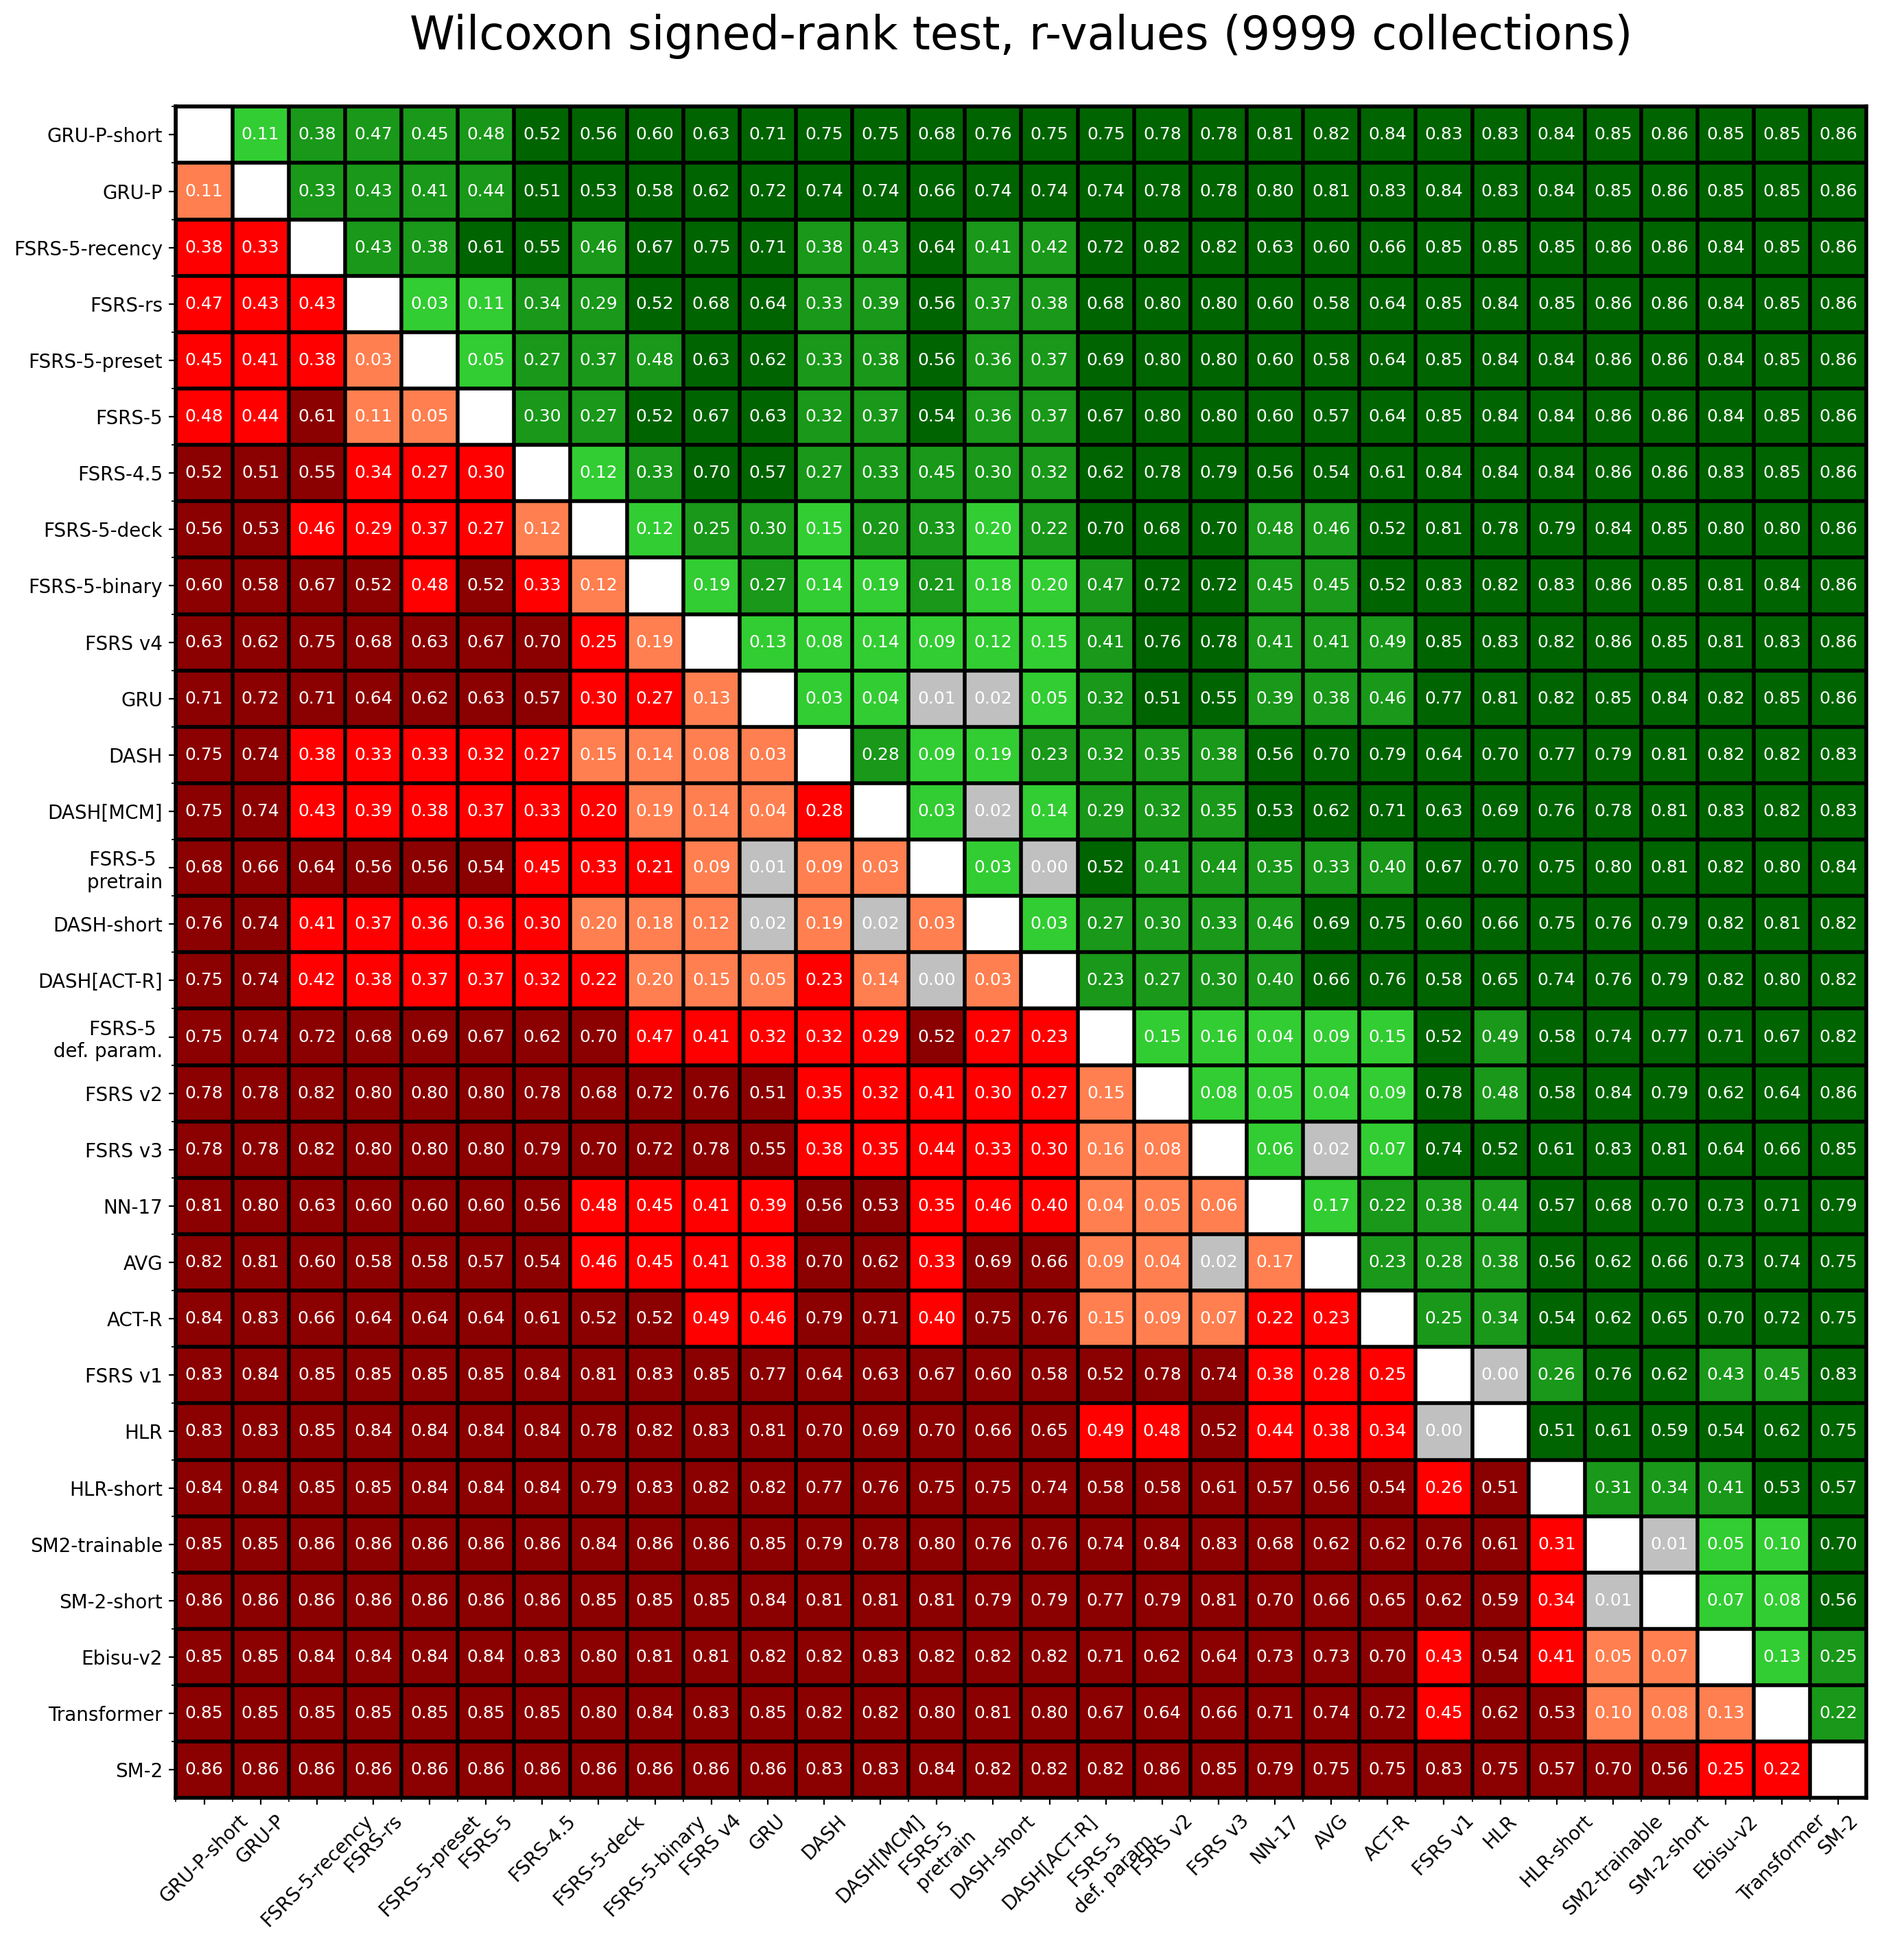
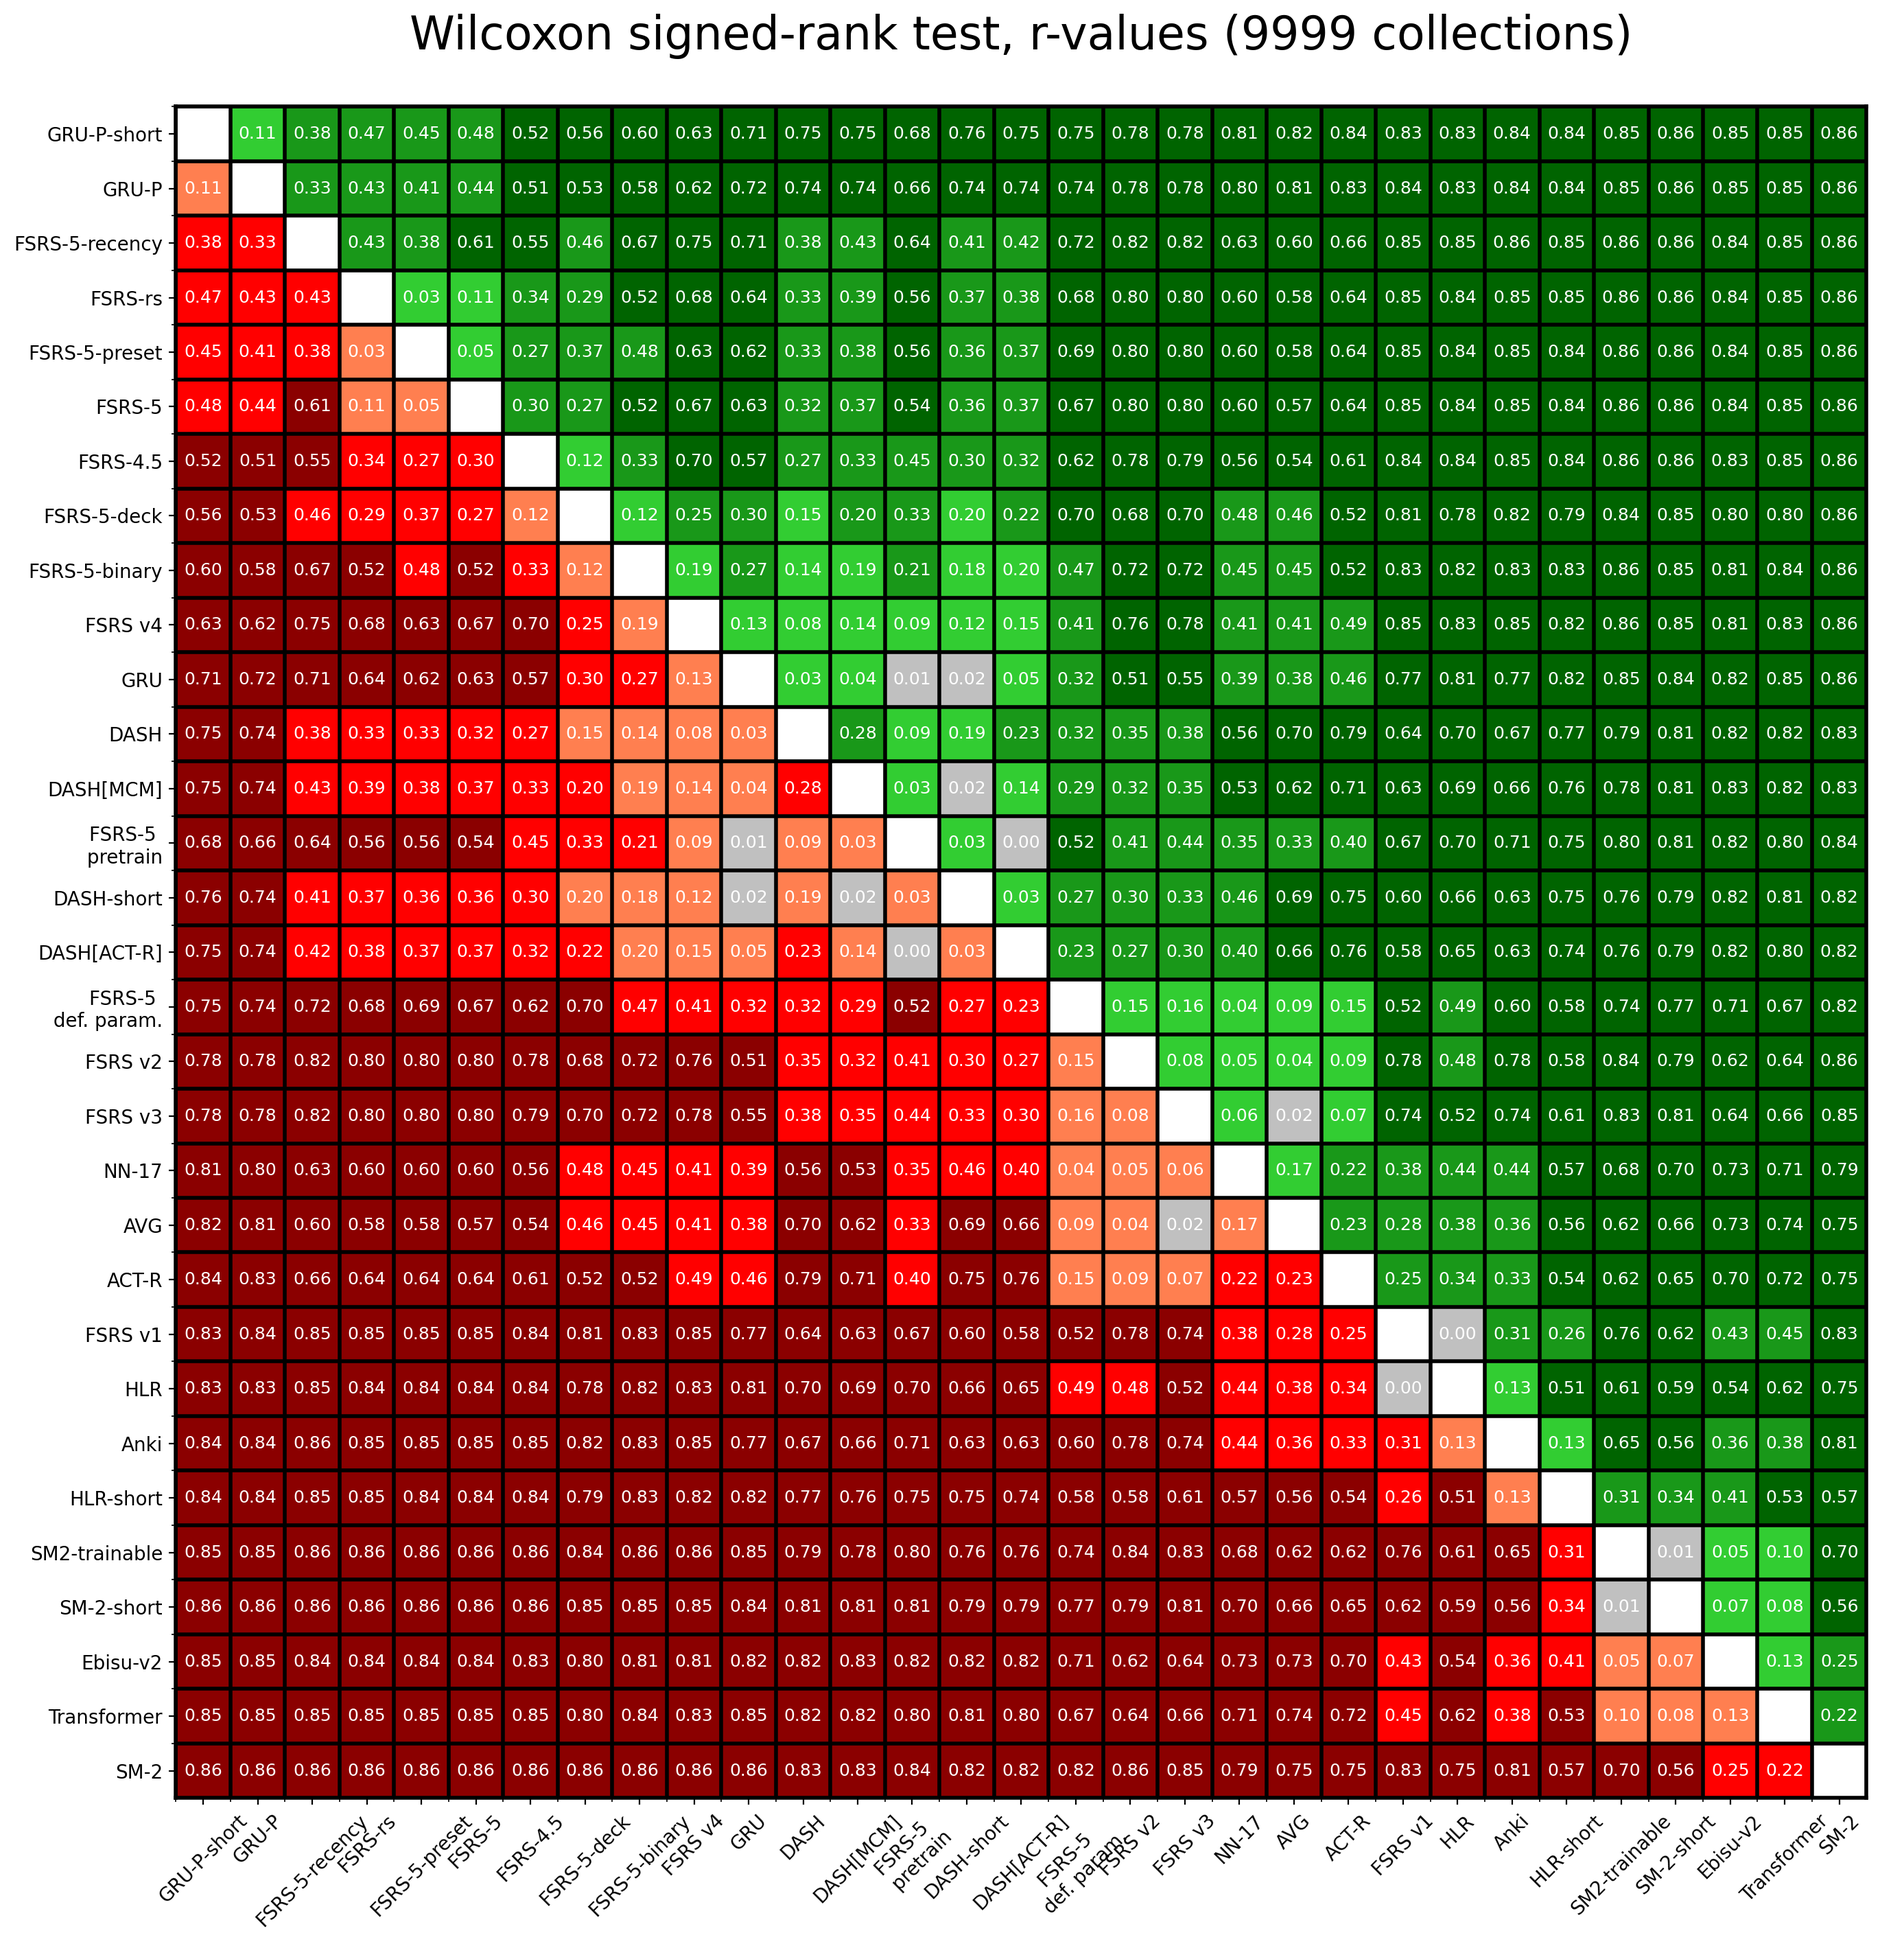
add Anki to results

diff --git a/other.py b/other.py
@@ -1755,6 +1755,7 @@ class SM2ParameterClipper:
 
 
 class SM2(nn.Module):
+    # 6 params
     init_w = [1, 6, 2.5, 0.02, 7, 0.18]
     clipper = SM2ParameterClipper()
     lr: float = 4e-2
@@ -1854,6 +1855,7 @@ class AnkiParameterClipper:
 
 
 class Anki(nn.Module):
+    # 7 params
     init_w = [
         1,  # graduating interval
         4,  # easy interval
@@ -1923,7 +1925,8 @@ class Anki(nn.Module):
                     self.passing_nonearly_review_intervals(
                         rating, ease, ivl, days_late
                     ),
-                ) * self.w[6]
+                )
+                * self.w[6],
             )
             new_ease = torch.where(
                 rating == 1,

diff --git a/evaluate.py b/evaluate.py
@@ -114,6 +114,7 @@ if __name__ == "__main__":
             ("ACT-R", 5),
             ("FSRSv1", 7),
             ("AVG", 0),
+            ("Anki", 7),
             ("HLR", 3),
             ("HLR-short", 3),
             ("SM2-trainable", 6),

diff --git a/significance_table.py b/significance_table.py
@@ -90,6 +90,7 @@ if __name__ == "__main__":
         "ACT-R",
         "FSRSv1",
         "HLR",
+        "Anki",
         "HLR-short",
         "SM2-trainable",
         "SM2-short",

diff --git a/superiority.py b/superiority.py
@@ -38,6 +38,7 @@ if __name__ == "__main__":
         "ACT-R",
         "FSRSv1",
         "HLR",
+        "Anki",
         "HLR-short",
         "SM2-trainable",
         "SM2-short",

diff --git a/README.md b/README.md
@@ -94,6 +94,7 @@ The following tables present the means and the 99% confidence intervals. The bes
 | ACT-R | 5 | 0.362±0.0089 | 0.086±0.0024 | 0.534±0.0054 |
 | FSRS v1 | 7 | 0.40±0.011 | 0.086±0.0024 | 0.633±0.0046 |
 | AVG | 0 | 0.363±0.0090 | 0.088±0.0025 | 0.508±0.0046 |
+| Anki | 7 | 0.41±0.011 | 0.094±0.0030 | 0.616±0.0057 |
 | HLR | 3 | 0.41±0.012 | 0.105±0.0030 | 0.633±0.0050 |
 | HLR-short | 3 | 0.44±0.013 | 0.116±0.0036 | 0.615±0.0062 |
 | SM2-trainable | 6 | 0.44±0.012 | 0.119±0.0033 | 0.599±0.0050 |
@@ -131,6 +132,7 @@ The following tables present the means and the 99% confidence intervals. The bes
 | HLR | 3 | 0.469±0.0073 | 0.128±0.0019 | 0.637±0.0026 |
 | FSRS v1 | 7 | 0.491±0.0080 | 0.132±0.0022 | 0.630±0.0025 |
 | HLR-short | 3 | 0.493±0.0079 | 0.140±0.0021 | 0.611±0.0029 |
+| Anki | 7 | 0.513±0.0089 | 0.140±0.0024 | 0.618±0.0023 |
 | Ebisu-v2 | 0 | 0.499±0.0078 | 0.163±0.0021 | 0.605±0.0026 |
 | Transformer | 127 | 0.468±0.0059 | 0.167±0.0022 | 0.531±0.0030 |
 | SM2-trainable | 6 | 0.58±0.012 | 0.170±0.0028 | 0.597±0.0025 |
